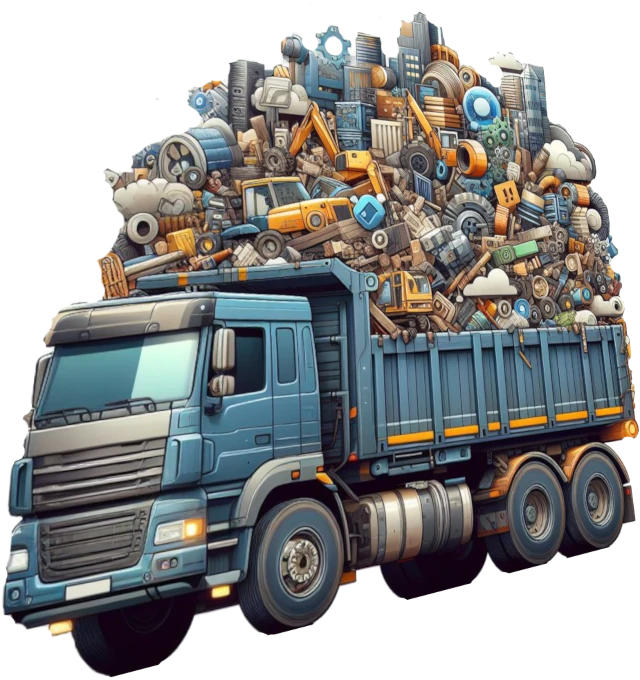
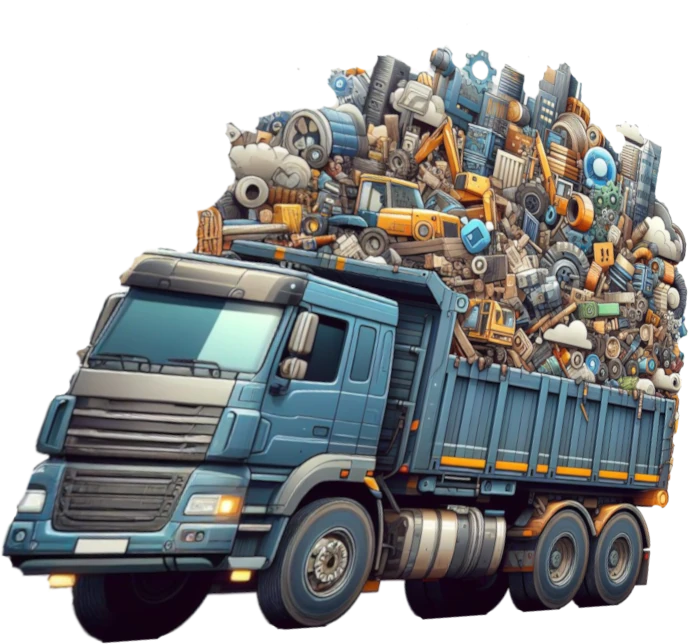
#5 Update Hero Styles

diff --git a/src/components/Hero/HeroSection.jsx b/src/components/Hero/HeroSection.jsx
@@ -8,9 +8,8 @@ import NumberCounter from "number-counter";
 import { FaTruck } from "react-icons/fa";
 import { Dimensions } from "@/settings/constants";
 
-const HeroSection = ({inMobile, showBookerHandler}) => {
+const HeroSection = ({ inMobile, showBookerHandler }) => {
   const transition = { type: "spring", duration: 3 };
-  
 
   return (
     <section id="#" className="w-full flex flex-col items-center">
@@ -77,12 +76,25 @@ const HeroSection = ({inMobile, showBookerHandler}) => {
           </div>
           <div className="hero-buttons w-full">
             <button className="button" onClick={showBookerHandler}>
-              <span className="text-2xl"><FaTruck /></span>
+              <span className="text-2xl">
+                <FaTruck />
+              </span>
               {Langs["en"].globalUI.bookOnline}
             </button>
           </div>
         </div>
-        <div className="flex flex-col best-hauler-image">
+        <div className="relative flex flex-col best-hauler-image">
+          <div class="star" style={{top:"10%", left: "20%"}}></div>
+          <div class="star" style={{top:"20%", left: "50%"}}></div>
+          <div class="star" style={{top:"30%", left: "80%"}}></div>
+          <motion.img
+            transition={{ type: "spring", duration: 2 }}
+            initial={{ opacity: 0 }}
+            whileInView={{ opacity: 1 }}
+            src="/citycloud.webp"
+            alt=""
+            className="sm:!w-[115%] !w-full sm:!h-[80%] !h-full !max-w-[115%] sm:!right-[-7rem] right-0 sm:top-[3rem] top-0 hero-image-back !absolute "
+          />
           <motion.img
             transition={transition}
             initial={{ left: "30%", opacity: 0 }}
@@ -93,7 +105,6 @@ const HeroSection = ({inMobile, showBookerHandler}) => {
           />
         </div>
       </div>
-      
     </section>
   );
 };

diff --git a/src/components/Hero/herostyles.css b/src/components/Hero/herostyles.css
@@ -177,6 +177,26 @@
     .hero-buttons {
         justify-content: center;
     }
-
-
 }
+
+.star {
+    position: absolute;
+    width: 2px;
+    height: 2px;
+    background-color: #fff;
+    border-radius: 50%;
+    opacity: 0;
+    animation: starAnimation 5s infinite;
+  }
+
+  @keyframes starAnimation {
+    0% {
+      opacity: 0;
+    }
+    50% {
+      opacity: 0.5;
+    }
+    100% {
+      opacity: 1;
+    }
+  }
